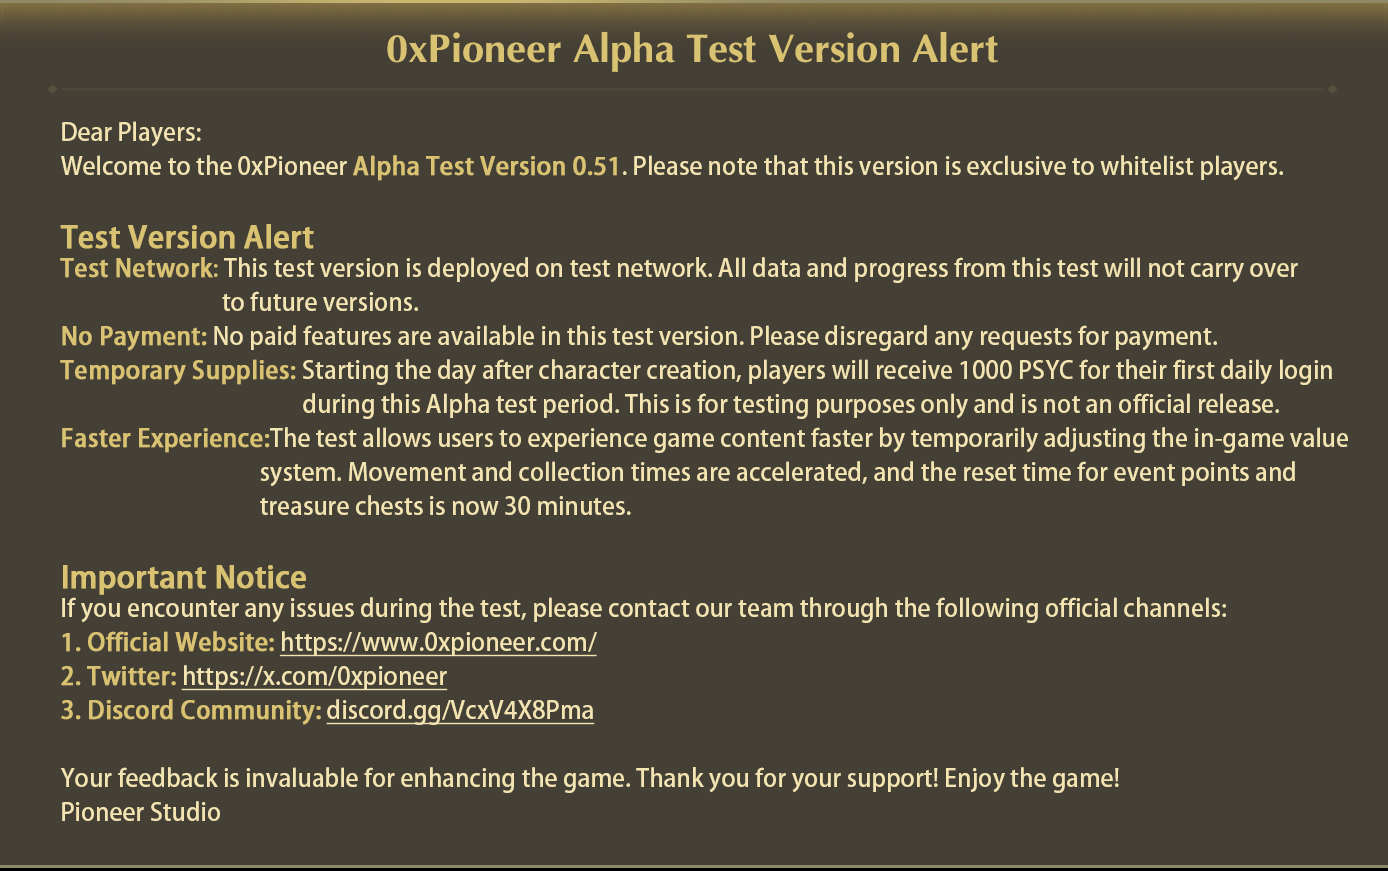
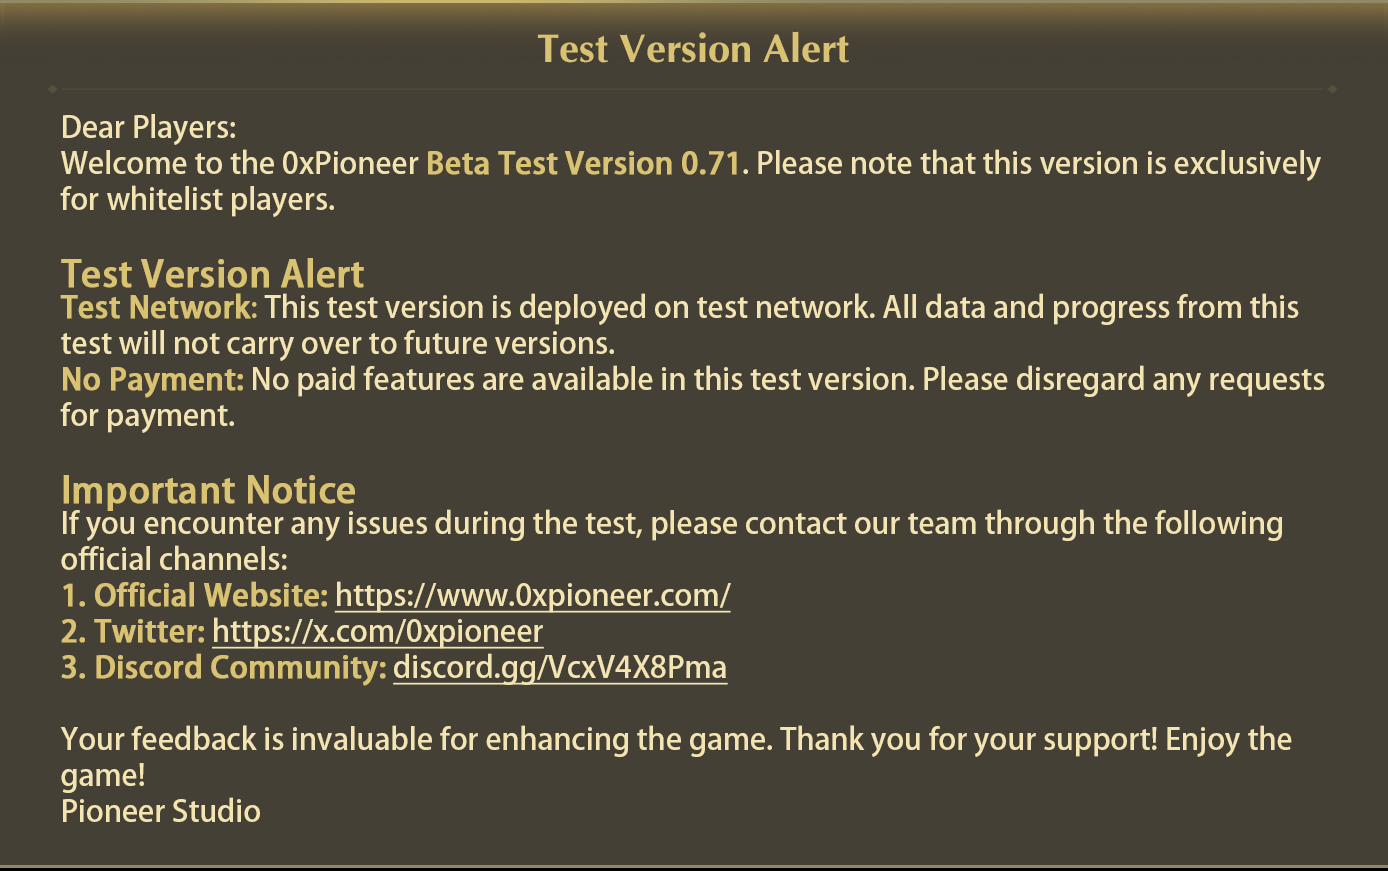
change login popup

Changed region(s): [[0.031, 0.124, 0.9604, 0.961], [0.2788, 0.031, 0.7125, 0.093]]

diff --git a/cocos_client/assets/Script/UI/Login/LoginUI.ts b/cocos_client/assets/Script/UI/Login/LoginUI.ts
@@ -25,7 +25,7 @@ export class LoginUI extends ViewController {
     protected viewDidLoad(): void {
         super.viewDidLoad();
 
-        this.node.getChildByPath("AlertView").active = false;
+        this.node.getChildByPath("AlertView").active = true;
     }
     protected viewDidStart(): void {
         super.viewDidStart();
@@ -106,13 +106,13 @@ export class LoginUI extends ViewController {
     private onTapCloseTip() {
         GameMusicPlayMgr.playTapButtonEffect();
         const contentView: Node = this.node.getChildByPath("AlertView/Img");
-        // tween()
-        //     .target(contentView)
-        //     .to(0.5, { scale: v3(0, 0, 0) }, { easing: "bounceIn" })
-        //     .call(() => {
-        //         this.node.getChildByPath("AlertView").active = false;
-        //     })
-        //     .start();
+        tween()
+            .target(contentView)
+            .to(0.5, { scale: v3(0, 0, 0) }, { easing: "bounceIn" })
+            .call(() => {
+                this.node.getChildByPath("AlertView").active = false;
+            })
+            .start();
     }
     private async onTapSetting() {
         GameMusicPlayMgr.playTapButtonEffect();
